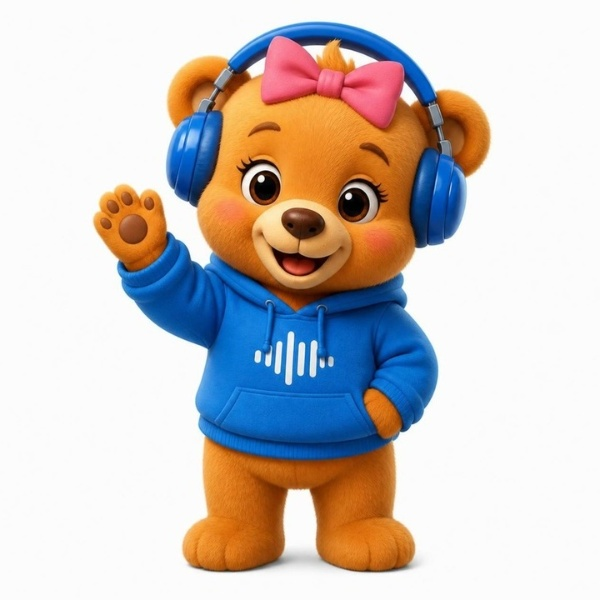
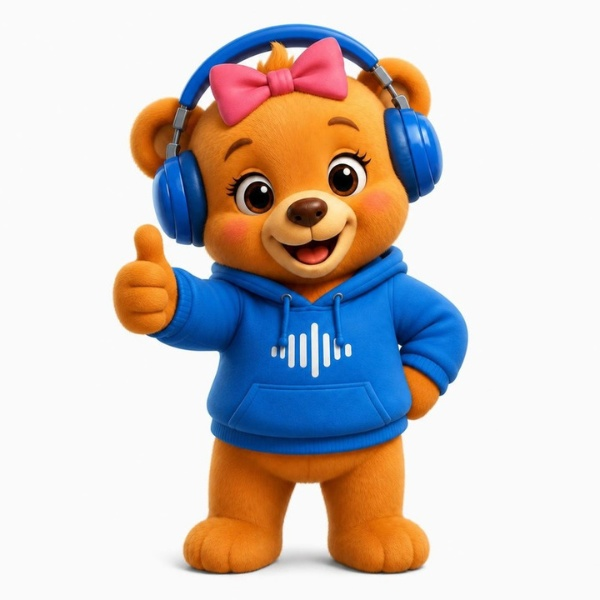
ژست لایکِ گوشیارِ دختر و تصویر تازهی زنگوله (Canva)
Claude-Session: https://claude.ai/code/session_01PLxCJkbjDqwwx5gYhwRCb4

diff --git a/MIGRATION.md b/MIGRATION.md
@@ -139,6 +139,6 @@
 
 - چهار ژست تازه با Canva از روی ژست قبلی ساخته شد تا شخصیت یکدست بماند: نارنجی، پاپیون صورتی، هدفون و هودی آبی.
   شناسههای Canva: wave `MAHX-yEFPJo`، listening `MAHX-z7-Nb8`، celebrate `MAHX-0D_2FI`، think `MAHX-_gzkLA`.
-- ژست «لایک» (cheer) ساخته نشد، چون سهمیهی Canva تمام شد. **فعلاً قرینهی ژست دستتکاندادن جایش است** و باید ساخته شود.
+- ژست «لایک» (cheer) هم ساخته شد: `MAHX-5zDUfc`.
 - آیکون برنامه (`art/app_icon.png` و mipmapها) از ژست تازه ساخته شد.
 - توضیح گوینده در `voice_lines.json` به «خرسِ دخترِ مهربان؛ صدای زنانه» تغییر کرد. گویندهی پیشفرض استودیو (پونه) زن است.
